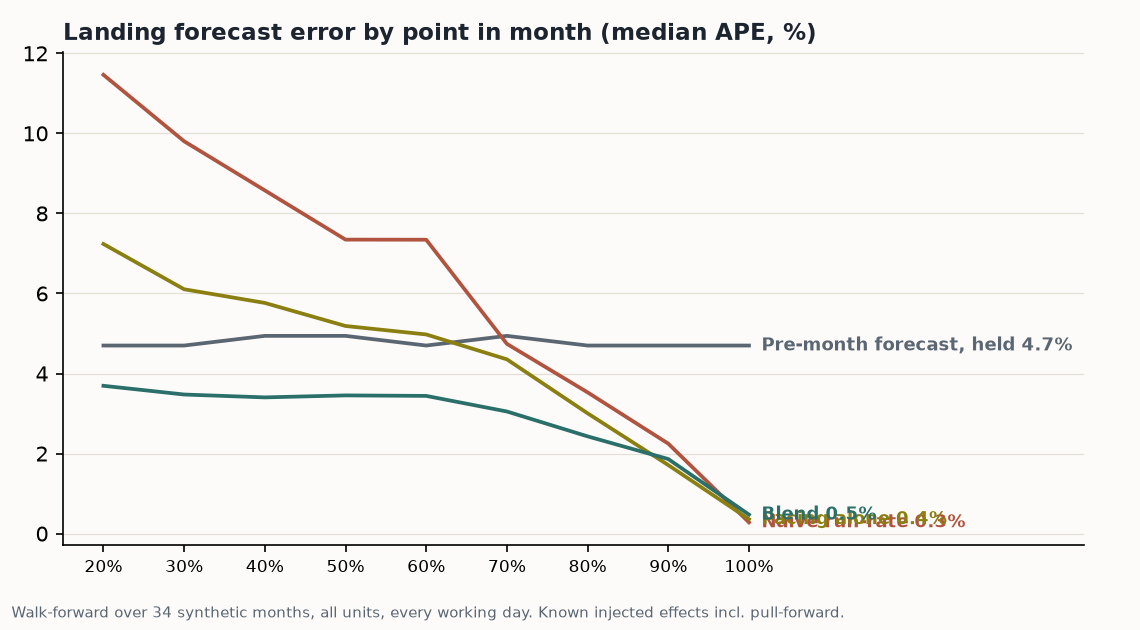
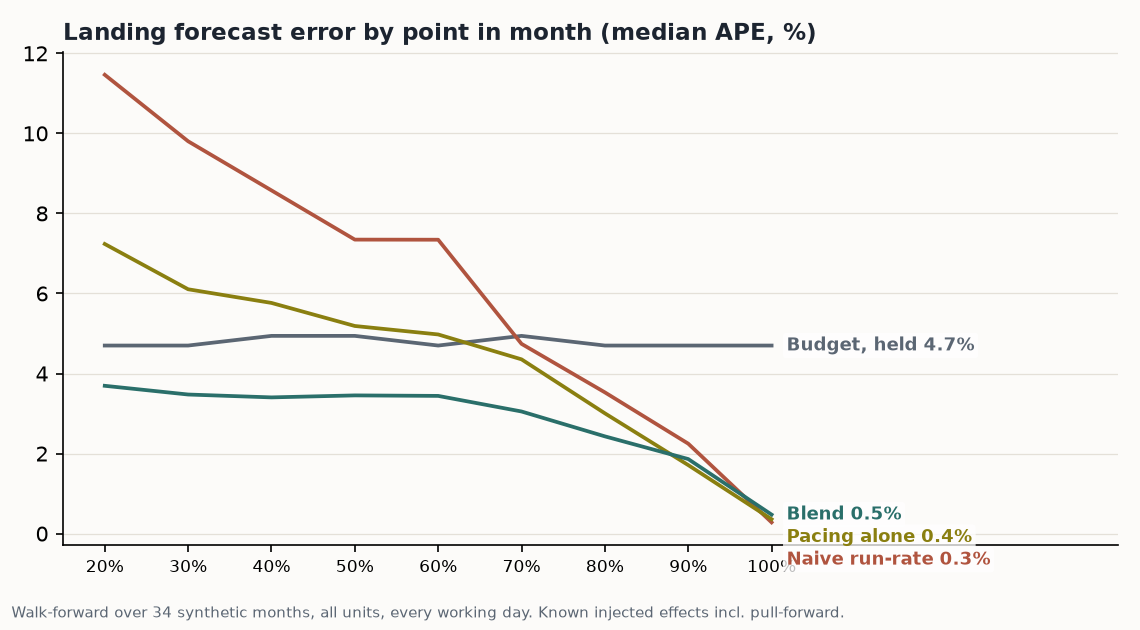
Stagger funnel end labels; budget terminology on the held line

diff --git a/month_landing.py b/month_landing.py
@@ -236,15 +236,28 @@ def report(rows):
     for side in ("top", "right"):
         ax.spines[side].set_visible(False)
     xs = range(len(funnel))
-    for key, colour, label in (("prior", MUTED, "Pre-month forecast, held"),
-                               ("runrate", SECOND, "Naive run-rate"),
-                               ("profiled", THIRD, "Pacing alone"),
-                               ("blend", ACCENT, "Blend")):
+    series = (("prior", MUTED, "Budget, held"),
+              ("runrate", SECOND, "Naive run-rate"),
+              ("profiled", THIRD, "Pacing alone"),
+              ("blend", ACCENT, "Blend"))
+    ends = []
+    for key, colour, label in series:
         ys = [f[key] for f in funnel]
         ax.plot(xs, ys, color=colour, linewidth=1.8)
-        ax.annotate(f"{label} {ys[-1]:.1f}%", xy=(len(funnel) - 1, ys[-1]),
-                    xytext=(6, 0), textcoords="offset points", va="center",
-                    fontsize=8.5, color=colour, fontweight="bold")
+        ends.append([label, colour, ys[-1]])
+    # staggered end labels: stack downward with a minimum gap so the lines
+    # that converge near zero do not write over each other
+    top = max(e[2] for e in ends)
+    gap = max(top, 1.0) * 0.12
+    pos = None
+    box = dict(facecolor="white", alpha=0.75, edgecolor="none",
+               boxstyle="round,pad=0.2")
+    for label, colour, val in sorted(ends, key=lambda e: -e[2]):
+        y = val if pos is None else min(val, pos - gap)
+        pos = y
+        ax.annotate(f"{label} {val:.1f}%", xy=(len(funnel) - 1, val),
+                    xytext=(len(funnel) - 0.82, y), va="center",
+                    fontsize=8.5, color=colour, fontweight="bold", bbox=box)
     ax.set_xticks(list(xs))
     ax.set_xticklabels([f["elapsed"] for f in funnel], fontsize=8)
     ax.set_xlim(-0.5, len(funnel) * 1.35)
